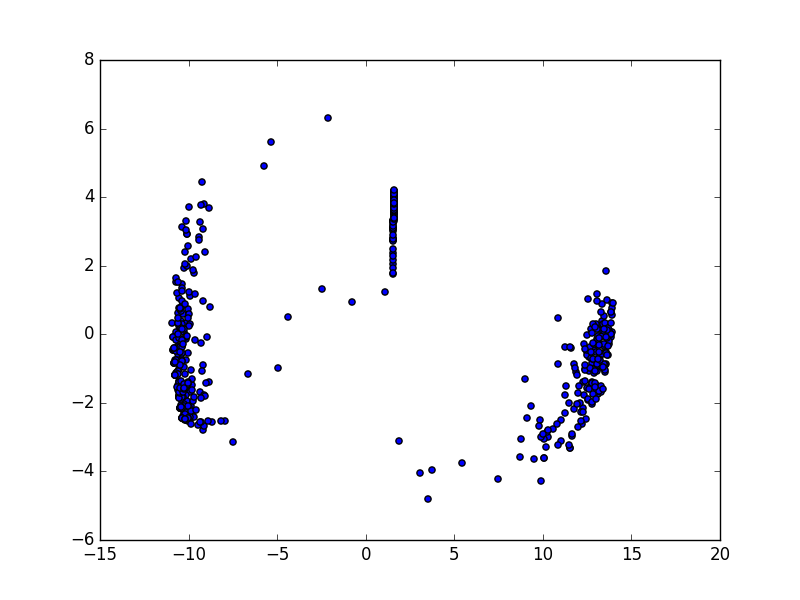
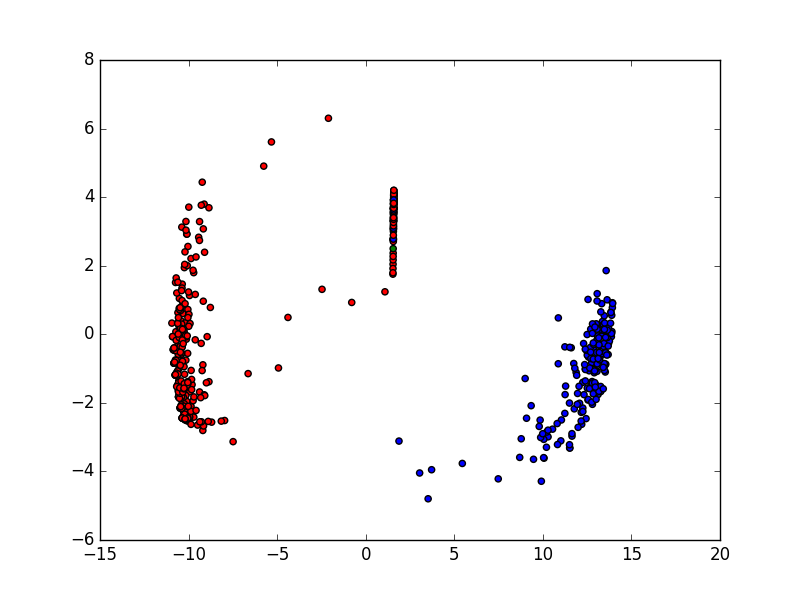
determines party affiliation and colors scatter plot accordinfly

diff --git a/create_similarity_matrix.py b/create_similarity_matrix.py
@@ -31,11 +31,25 @@ def keep_passage_votes(vote_filenames):
 def congressman_ids_from_dict(vote_dict):
 	ids = []
 	for element in vote_dict:
-		ids.append(element["id"])
+		ids.append((element["id"], element["party"]))
 	return ids
 
 vote_filenames =  get_vote_filenames()
 passage_filenames = keep_passage_votes(vote_filenames)
+
+def get_party_affiliations(bioguide_ids, parties):
+	affiliation = {}
+	for congressman, party in zip(bioguide_ids, parties):
+		affiliation[congressman] = party
+	return affiliation
+
+def convert_affiliation_to_color(affil):
+	if affil == "R" or affil == "r" or affil == "Republican" or affil == "republican":
+		return 'red'
+	elif affil == "D" or affil == "d" or affil == "Democrat" or affil == "democrat":
+		return 'blue'
+	else:
+		return 'green'
 
 voting_record = defaultdict(lambda: defaultdict(int))
 votes = []
@@ -46,23 +60,23 @@ for passage_filename in passage_filenames:
 		for vote_type in data["votes"].keys():
 			if vote_type == "Aye":
 				user_ids = congressman_ids_from_dict(data["votes"]["Aye"]) 
-				votes_to_add = [(uid, vote_id, 1.0) for uid in user_ids]
+				votes_to_add = [(uid, vote_id, 1.0, party) for uid, party in user_ids]
 				votes += votes_to_add
 			elif vote_type == "Yea":
 				user_ids = congressman_ids_from_dict(data["votes"]["Yea"]) 
-				votes_to_add = [(uid, vote_id, 1.0) for uid in user_ids]
+				votes_to_add = [(uid, vote_id, 1.0, party) for uid, party in user_ids]
 				votes += votes_to_add
 			elif vote_type == "Nay":
 				user_ids = congressman_ids_from_dict(data["votes"]["Nay"]) 
-				votes_to_add = [(uid, vote_id, -1.0) for uid in user_ids]
+				votes_to_add = [(uid, vote_id, -1.0, party) for uid, party in user_ids]
 				votes += votes_to_add
 			elif vote_type == "No":
 				user_ids = congressman_ids_from_dict(data["votes"]["No"]) 
-				votes_to_add = [(uid, vote_id, -1.0) for uid in user_ids]
+				votes_to_add = [(uid, vote_id, -1.0, party) for uid, party in user_ids]
 				votes += votes_to_add
 			elif vote_type == "Not Voting": 
 				user_ids = congressman_ids_from_dict(data["votes"]["Not Voting"]) 
-				votes_to_add = [(uid, vote_id, 0.0) for uid in user_ids]
+				votes_to_add = [(uid, vote_id, 0.0, party) for uid, party in user_ids]
 				votes += votes_to_add
 			elif vote_type == "Present":
 				continue
@@ -78,11 +92,21 @@ pca = PCA(2)
 two_d_view = pca.fit_transform(vote_df)
 print "Explained variance ratios:"
 print pca.explained_variance_ratio_
+
+print "Getting party affiliations"
+party_affiliations = get_party_affiliations([x[0] for x in votes], [x[3] for x in votes])
+party_affil_colored = pd.Series(party_affiliations).apply(convert_affiliation_to_color)
+colors = party_affil_colored[vote_df.index]
+print "Colors"
+print colors
+#print party_affil_colored.head()
 print "Plotting"
+
 print two_d_view
 plt.figure()
-plt.scatter(two_d_view[:, 0], two_d_view[:, 1])
+plt.scatter(two_d_view[:, 0], two_d_view[:, 1], c=colors)
 plt.show()
+
 
 
 

diff --git a/test.py b/test.py
@@ -1,0 +1,12 @@
+import yaml
+import os
+
+ids = []
+with open(os.getcwd() + "/congress-legislators/legislators-current.yaml", 'r') as stream:
+    legislators = yaml.load(stream)
+
+    for legislator in legislator:
+    	new_person = {}
+    	new_person["name"] = legislator["name"]
+    	new_person["id"] = legislator["id"]["bioguide"]
+
